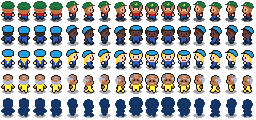
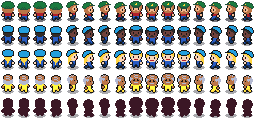
Add union busters that will chase you.
If you get caught, you lose an hour and some people will leave the
union.  Everyone will get shuffled around in the warehouse, but the
warehouse itself remains the same so you can navigate a little more
easily afterward.

Changed region(s): [[0.0, 0.8, 1.0, 0.975]]

diff --git a/maze_screen.cc b/maze_screen.cc
@@ -9,13 +9,11 @@ MazeScreen::MazeScreen(GameState gs) :
   warehouse_(rng_()),
   camera_(player_.draw_box())
 {
-  // add workers
-  for (int i = 0; i < 10; ++i) {
-    auto p = warehouse_.random_open_cell(rng_);
-    workers_.emplace_back(
-        rng_(),
-        p.first * Config::kTileSize + Config::kTileSize / 2,
-        p.second * Config::kTileSize + Config::kTileSize / 2);
+  for (int i = 0; i < kNumWorkers; ++i) {
+    workers_.emplace_back(rng_(), warehouse_.random_open_cell(rng_));
+  }
+  for (int i = 0; i < kNumBusters; ++i) {
+    busters_.emplace_back(rng_(), warehouse_.random_open_cell(rng_));
   }
 }
 
@@ -52,6 +50,7 @@ bool MazeScreen::update(const Input& input, Audio&, unsigned int elapsed) {
   }
 
   if (input.key_pressed(Input::Button::A)) {
+    bool worker_found = false;
     for (auto& worker : workers_) {
       if (worker.draw_box().intersect(player_.target())) {
         if (worker.is_unionized()) {
@@ -59,32 +58,51 @@ bool MazeScreen::update(const Input& input, Audio&, unsigned int elapsed) {
         } else {
           dialog_.set_message("Yes, I'd love to join the union.");
           worker.unionize();
-          ++gs_.workers;
         }
+        worker_found = true;
       }
     }
-    const Warehouse::Cell c = player_.interact(warehouse_);
 
-    switch (c.tile) {
-      case Warehouse::Tile::Elevator:
-        // TODO go up
-        return false;
+    if (!worker_found) {
+      const Warehouse::Cell c = player_.interact(warehouse_);
 
-      case Warehouse::Tile::Shelf:
-        dialog_.set_message("Look at all this junk.");
-        break;
+      switch (c.tile) {
+        case Warehouse::Tile::Elevator:
+          // TODO go up
+          return false;
 
-      case Warehouse::Tile::WallFace:
-        // Only sprites above 8 have "posters"
-        if (c.sprite > 8) dialog_.set_message("More anti-union propaganda.");
-        break;
+        case Warehouse::Tile::Shelf:
+          dialog_.set_message("Look at all this junk.");
+          break;
 
-      default: // Other tiles do nothing interesting
-        break;
+        case Warehouse::Tile::WallFace:
+          // Only sprites above 8 have "posters"
+          if (c.sprite > 8) dialog_.set_message("More anti-union propaganda.");
+          break;
+
+        default: // Other tiles do nothing interesting
+          break;
+      }
     }
   }
 
-  // TODO handle busters
+  for (auto& buster : busters_) {
+    buster.update(player_, warehouse_, elapsed);
+
+    if (buster.collision_box().intersect(player_.collision_box())) {
+      // TODO fade out/in
+      dialog_.set_message("Hey kid, time for workplace training!");
+      gs_.add_time(60000);
+      player_.reset_position();
+      camera_.snap(player_.draw_box());
+
+      std::uniform_int_distribution<int> flip(0, 1);
+      for (auto& worker : workers_) {
+        if (flip(rng_) == 1) worker.leave_union();
+        worker.set_tile_position(warehouse_.random_open_cell(rng_));
+      }
+    }
+  }
 
   for (auto& worker : workers_) {
     worker.update(warehouse_, elapsed);
@@ -115,12 +133,25 @@ void MazeScreen::draw(Graphics& graphics) const {
       worker.draw(graphics, xo, yo);
     }
   }
+
+  for (auto buster : busters_) {
+    buster.draw(graphics, xo, yo);
+  }
+
   if (dialog_) dialog_.draw(graphics);
 
-  text_.draw(graphics, "Workers: " + std::to_string(gs_.workers), 0, 0);
+  text_.draw(graphics, "Workers: " + std::to_string(gs_.workers + union_workers()), 0, 0);
   text_.draw(graphics, gs_.clock(), graphics.width(), 0, Text::Alignment::Right);
 }
 
 Screen* MazeScreen::next_screen() const {
   return nullptr;
+}
+
+int MazeScreen::union_workers() const {
+  int sum = 0;
+  for (const auto& worker : workers_) {
+    if (worker.is_unionized()) ++sum;
+  }
+  return sum;
 }

diff --git a/maze_char.cc b/maze_char.cc
@@ -11,6 +11,10 @@ MazeChar::MazeChar(double x, double y) :
   sprites_("maze_chars.png", 16, 16, 24),
   timer_(0) {}
 
+MazeChar::MazeChar(std::pair<int, int> tile_pos) : MazeChar(0, 0) {
+  set_tile_position(tile_pos);
+}
+
 void MazeChar::move(Direction dir) {
   state_ = State::Walking;
   facing_ = dir;
@@ -65,10 +69,17 @@ Rect MazeChar::collision_box() const {
     y_ + Config::kTileSize / 2 - 2 };
 }
 
-void MazeChar::set_position(int x, int y) {
+void MazeChar::set_position(double x, double y) {
   x_ = x;
   y_ = y;
   stop();
+}
+
+void MazeChar::set_tile_position(std::pair<int, int> tile_pos) {
+  set_position(
+    tile_pos.first * Config::kTileSize + Config::kTileSize / 2,
+     tile_pos.second * Config::kTileSize + Config::kTileSize / 2
+  );
 }
 
 bool MazeChar::collision(const Warehouse& warehouse, double dx, double dy) const {
@@ -82,5 +93,3 @@ int MazeChar::sprite_number() const {
   }
   return d + sprite_base();
 }
-
-

diff --git a/worker.h b/worker.h
@@ -7,24 +7,21 @@
 class Worker : public MazeChar {
   public:
 
-    Worker(unsigned long seed, double x, double y);
+    Worker(unsigned long seed, std::pair<int, int> tile_pos);
 
     void update(const Warehouse& warehouse, unsigned int elapsed) override;
     void unionize() { unionized_ = true; }
+    void leave_union() { unionized_ = false; }
     bool is_unionized() const { return unionized_; }
 
   private:
 
-    static constexpr int kMinWalkTime = 1000;
-    static constexpr int kMaxWalkTime = 5000;
-
     double speed() const override { return 0.025; }
     int sprite_base() const override { return 16 + 16 * visual_; }
-
-    int walk_time() { return std::uniform_int_distribution<int>(kMinWalkTime, kMaxWalkTime)(rng_); }
+    int wander_time() { return std::uniform_int_distribution<int>(1000, 5000)(rng_); }
 
     std::mt19937 rng_;
-    int wait_timer_;
+    int wander_timer_;
     const int visual_;
     bool unionized_;
 };

diff --git a/buster.cc b/buster.cc
@@ -1,0 +1,30 @@
+#include "buster.h"
+
+Buster::Buster(unsigned long seed, std::pair<int, int> tile_pos) :
+  MazeChar(tile_pos), rng_(seed) {}
+
+void Buster::update(const MazePlayer& player, const Warehouse& warehouse, unsigned int elapsed) {
+  visible_ = warehouse.box_visible(collision_box());
+
+  if (visible_) {
+    chase(player);
+  } else if (wander_timer_ <= 0) {
+    move(Direction::random(rng_));
+    wander_timer_ = wander_time();
+  } else {
+    wander_timer_ -= elapsed;
+  }
+
+  MazeChar::update(warehouse, elapsed);
+}
+
+void Buster::chase(const MazePlayer& player) {
+  double dx = player.x() - x();
+  double dy = player.y() - y();
+
+  if (std::abs(dx) > std::abs(dy)) {
+    move(dx > 0 ? Direction::East : Direction::West);
+  } else {
+    move(dy > 0 ? Direction::South : Direction::North);
+  }
+}

diff --git a/worker.cc b/worker.cc
@@ -1,18 +1,17 @@
 #include "worker.h"
 
-Worker::Worker(unsigned long seed, double x, double y) :
-  MazeChar(x, y),
-  rng_(seed), wait_timer_(0),
+Worker::Worker(unsigned long seed, std::pair<int, int> tile_pos) :
+  MazeChar(tile_pos),
+  rng_(seed), wander_timer_(0),
   visual_(std::uniform_int_distribution<int>(0, 1)(rng_)),
   unionized_(false) {}
 
 void Worker::update(const Warehouse& warehouse, unsigned int elapsed) {
-  if (wait_timer_ <= 0) {
+  if (wander_timer_ <= 0) {
     move(Direction::random(rng_));
-    wait_timer_ = walk_time();
+    wander_timer_ = wander_time();
   } else {
-    wait_timer_ -= elapsed;
+    wander_timer_ -= elapsed;
   }
-
   MazeChar::update(warehouse, elapsed);
 }

diff --git a/buster.h b/buster.h
@@ -1,0 +1,25 @@
+#pragma once
+
+#include <random>
+
+#include "maze_char.h"
+#include "maze_player.h"
+
+class Buster : public MazeChar {
+  public:
+    Buster(unsigned long seed, std::pair<int, int> tile_pos);
+
+    void update(const MazePlayer& player, const Warehouse& warehouse, unsigned int elapsed);
+
+  private:
+
+    double speed() const override { return visible_ ? 0.085 : 0.045; }
+    int sprite_base() const override { return visible_ ? 48 : 64; }
+    int wander_time() { return std::uniform_int_distribution<int>(500, 10000)(rng_); }
+
+    std::mt19937 rng_;
+    bool visible_;
+    int wander_timer_;
+
+    void chase(const MazePlayer& player);
+};

diff --git a/maze_screen.h b/maze_screen.h
@@ -6,6 +6,7 @@
 #include "screen.h"
 #include "text.h"
 
+#include "buster.h"
 #include "camera.h"
 #include "dialog.h"
 #include "game_state.h"
@@ -25,6 +26,9 @@ class MazeScreen : public Screen {
 
   private:
 
+    static constexpr int kNumWorkers = 10;
+    static constexpr int kNumBusters = 3;
+
     GameState gs_;
     std::mt19937 rng_;
 
@@ -38,6 +42,7 @@ class MazeScreen : public Screen {
     Camera camera_;
     Dialog dialog_;
     std::vector<Worker> workers_;
+    std::vector<Buster> busters_;
 
     int union_workers() const;
 };

diff --git a/maze_char.h b/maze_char.h
@@ -13,6 +13,7 @@ class MazeChar {
     enum class State { Waiting, Walking };
 
     MazeChar(double x, double y);
+    MazeChar(std::pair<int, int> tile_pos);
     virtual ~MazeChar() {}
 
     void move(Direction dir);
@@ -27,7 +28,8 @@ class MazeChar {
     double x() const { return x_; }
     double y() const { return y_; }
 
-    void set_position(int x, int y);
+    void set_position(double x, double y);
+    void set_tile_position(std::pair<int, int> tile_position);
 
   protected:
 

diff --git a/maze_player.cc b/maze_player.cc
@@ -20,6 +20,11 @@ Warehouse::Cell MazePlayer::interact(const Warehouse& warehouse) const {
   return warehouse.get_cell(px, py);
 }
 
+void MazePlayer::reset_position() {
+  x_ = Warehouse::pixel_width() / 2;
+  y_ = Warehouse::pixel_height() - 8;
+}
+
 Rect MazePlayer::target() const {
   const Rect box = draw_box();
   return Rect{

diff --git a/maze_player.h b/maze_player.h
@@ -10,6 +10,7 @@ class MazePlayer : public MazeChar {
 
     Warehouse::Cell interact(const Warehouse& warehouse) const;
     Rect target() const;
+    void reset_position();
 
   private:
 
